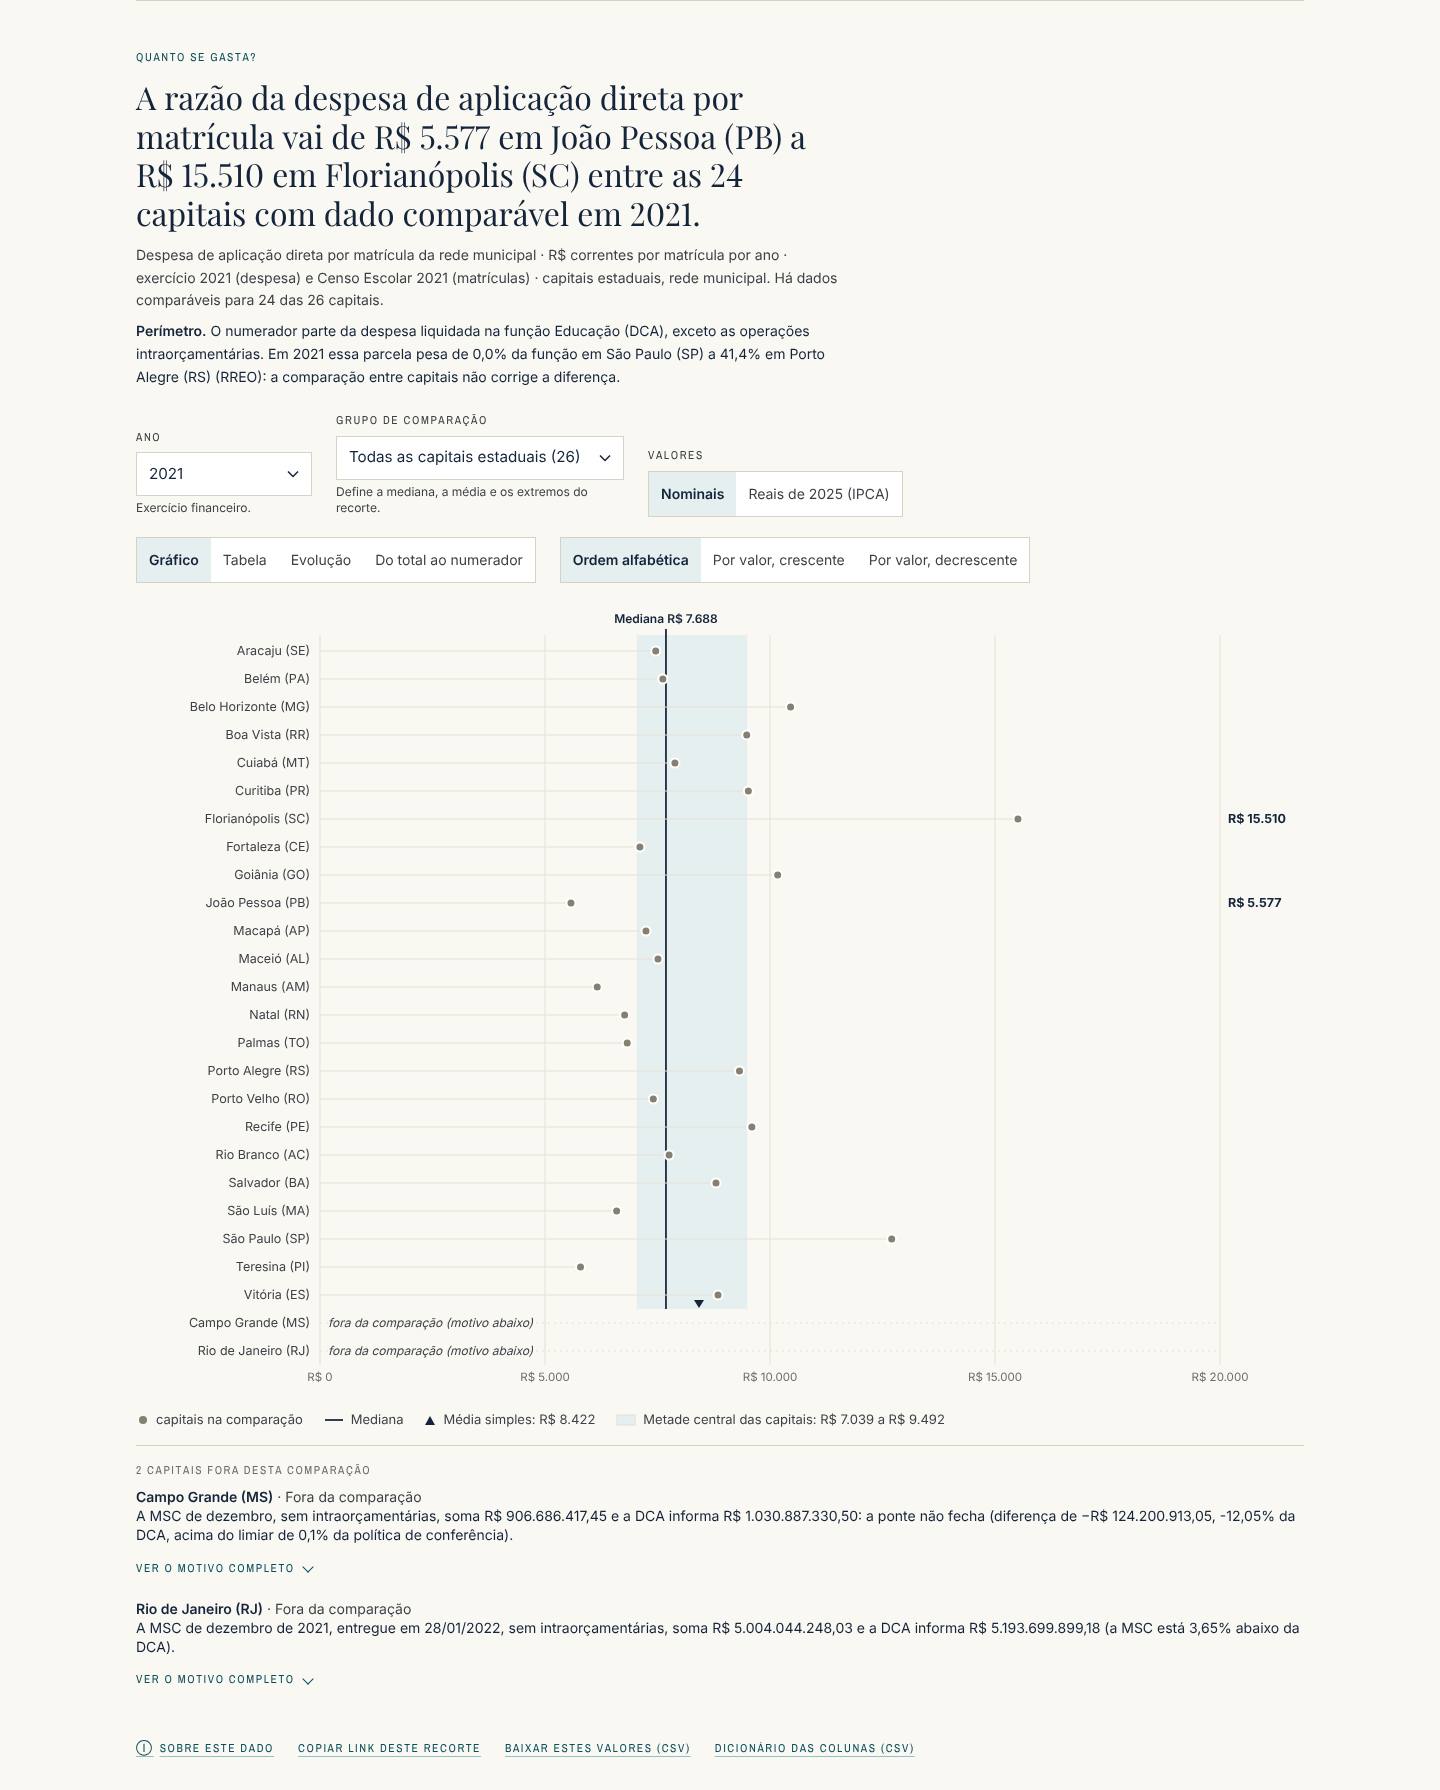
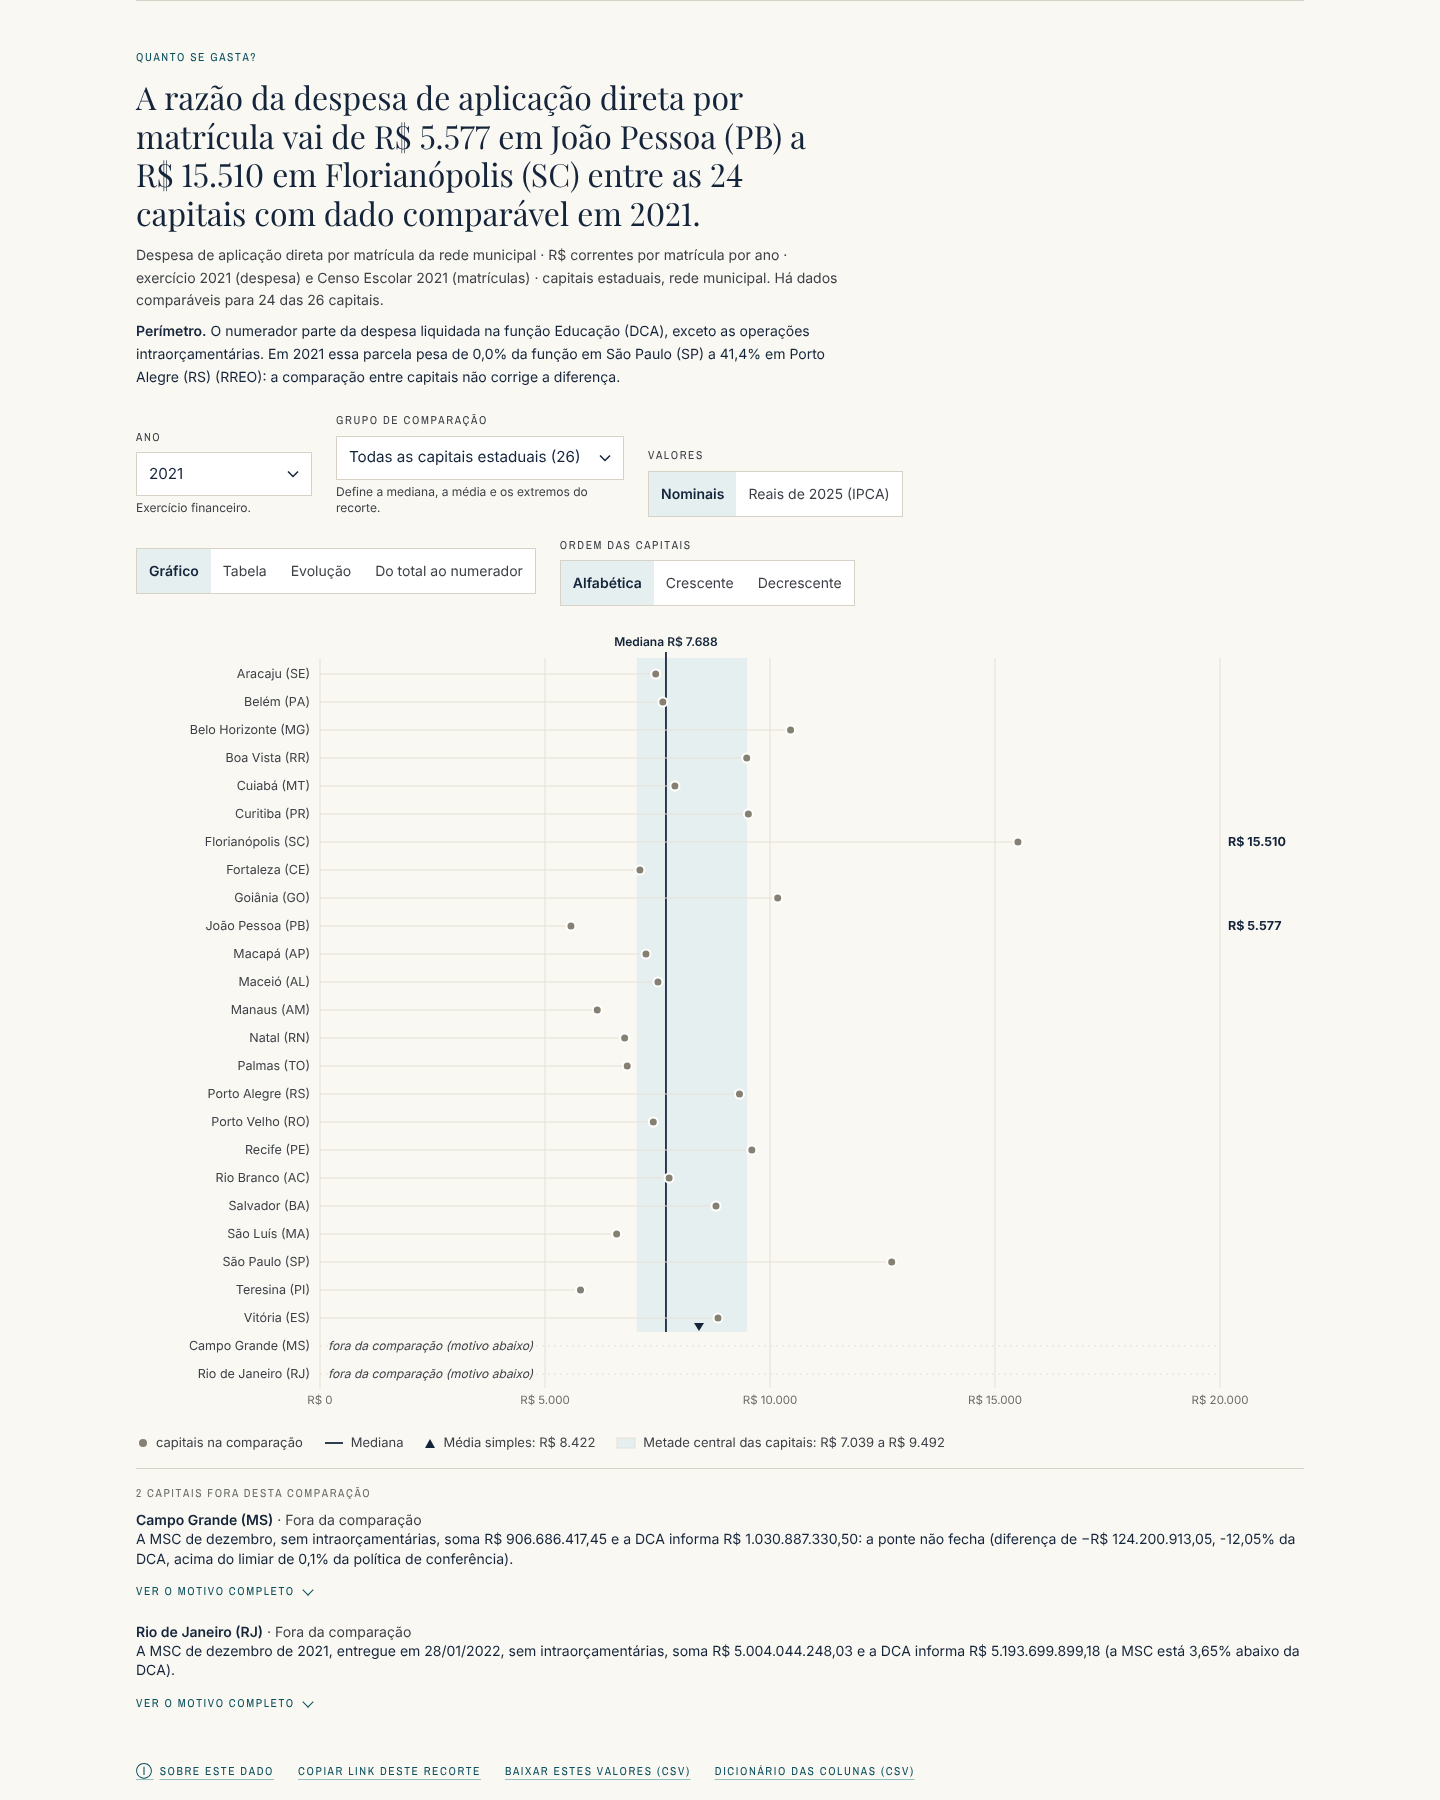
OBEE: capturas depois e relatório do executor atualizados após a rodada 2
Claude-Session: https://claude.ai/code/session_01VePKWxFNRcWLBnDHi5N7Dd

diff --git a/docs/obee/avaliacao/EXECUCAO.md b/docs/obee/avaliacao/EXECUCAO.md
@@ -18,7 +18,7 @@ Seis painéis em `/eficiencia-estatal/educacao-municipal-capitais`: Panorama (ra
 
 ## Verificações executadas pelo executor (build `next build` do HEAD, servidor local na porta 3100)
 
-* Suíte completa: 142 arquivos, 2.664 testes aprovados, 1 ignorado (Vitest). Python: 41 testes do pipeline aprovados. `tsc` e ESLint sem erro.
+* Suíte completa (após a rodada 2): 142 arquivos, 2.667 testes aprovados, 1 ignorado (Vitest). Python: 41 testes do pipeline aprovados. `tsc` e ESLint sem erro.
 * Gate de HTML pré-renderizado (`EXIGIR_BUILD_HTML=1`) aprovado no build.
 * `scripts/obee/redesenho-verificacao.mjs`: 16 rotas por 5 larguras (1440, 1024, 768, 390, 320 px), 80 combinações, 2.766 controles medidos, axe-core (WCAG 2.2 AA) sem violações, sem rolagem horizontal da página, alvos de toque a partir de 44 px, foco visível, movimento reduzido.
 * `scripts/obee/interacoes-redesenho.mjs`: 59 verificações em 1280 px e 59 em 390 px (navegação, estado na URL, gráfico e tabela com o mesmo conjunto, downloads, teclado, toque, capitais fora da comparação, CSV da série).
@@ -36,3 +36,7 @@ Nenhuma regressão detectada pelos roteiros acima. O que foi conscientemente alt
 * `P18` (parâmetros inválidos de URL voltam ao padrão em silêncio e a URL só é normalizada na próxima mudança) é comportamento do hook compartilhado `useEstadoUrl`, documentado como regra do projeto; não foi alterado para não afetar Energia e Crédito.
 * Fora do escopo desta execução: P16 (posição da anotação da pandemia), P19 (zero de rede sem etapa na mediana), P20 (commit exato da geração da gold), P22 (rodapé compartilhado), P21 sem JavaScript e a observação editorial P23.
 * O seletor Medida é o mesmo commit do PR #122 (aberto): se o #122 for mergeado antes, este PR o recebe sem conflito.
+
+## Correções após a rodada 2 (lote 6)
+
+Itens dos relatórios independentes da rodada 2 tratados: colisão de rótulos na evolução, legenda única das mudanças de base, coerência da evolução (frase, subtítulo, controle Valores, seletor Ano), eixo sem zero avisado, legenda da referência externa com escopo, área útil em 320 px, ordem crescente e decrescente com rótulos curtos; frase da capital com a diferença dos valores exibidos; resumo de alunos por turma em creche e pré-escola; siglas por `abbr`; dicionário das séries e manifesto públicos; URL da MSC na trilha; histórico de revisões sem linguagem de processo (revisão 1.4); conteúdo escondido até a leitura do recorte da URL (com aviso sem JavaScript). Conhecido e não alterado: a perímetro intraorçamentário heterogêneo (0,0% a 32,2% da função em 2025) é declarado junto do número e não é corrigido nem oferecido em variante, por decisão metodológica documentada; link do repositório no painel não foi adicionado; o aviso de que o conteúdo só aparece depois da hidratação em links com recorte aumenta o tempo até o conteúdo nesses links.
